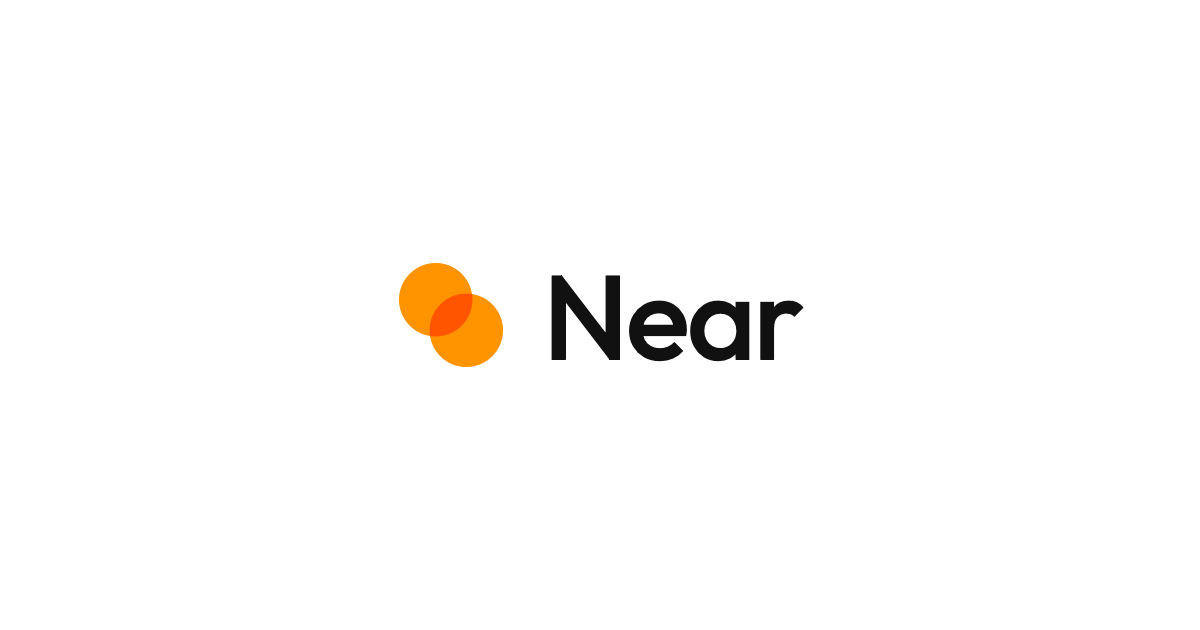
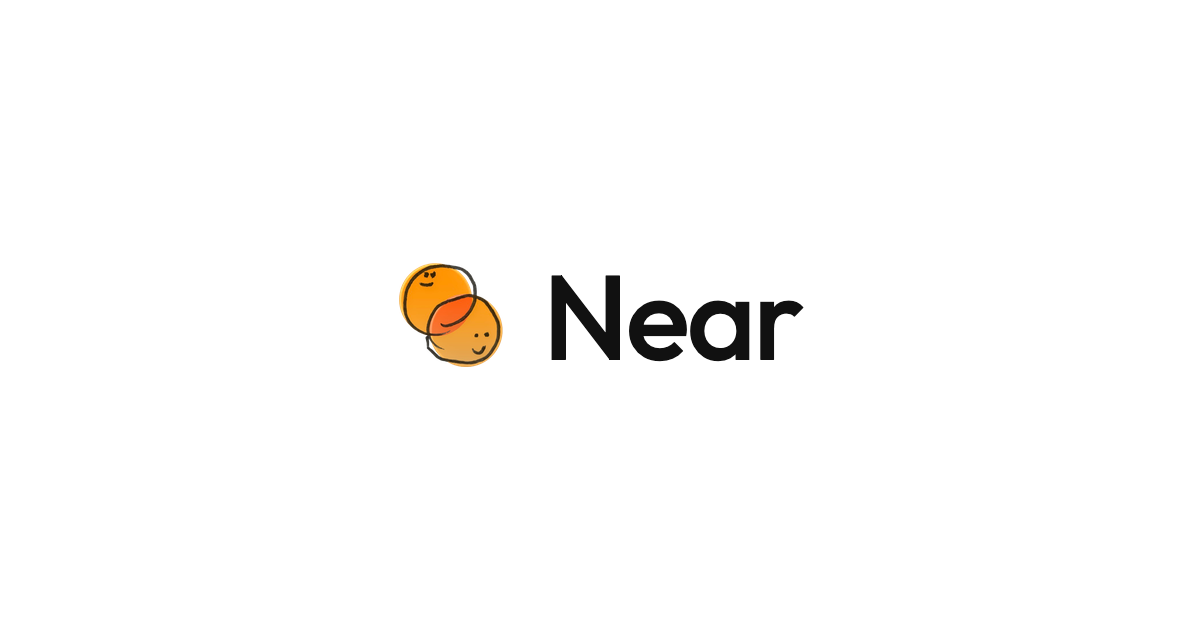
feat(brand): the hand-drawn Near mark everywhere on the site
The wordmark (header, hero, footer), the phone mock's feed bar, the
favicon, the touch icon and the share image use the new drawing, trimmed
to its edges so it fills the same box the two circles did.

Changed region(s): [[0.3083, 0.4222, 0.4317, 0.6032]]

diff --git a/src/styles/global.css b/src/styles/global.css
@@ -11,9 +11,8 @@
   --color-line: #e8e8e6;
   --color-accent: #ff6a2b;
   --color-accent-soft: #fff1ea;
-  /* Logo mark only (matches the app icon): the two circles, and their overlap (= multiply). */
+  /* The logo's orange: every orange fill in the phone mocks. */
   --color-mark: #ff9300;
-  --color-mark-overlap: #ff5500;
 
   /* The only four text sizes on the site (page text; the app mock screens keep their own tiny sizes).
      Fluid from a 390px phone to the 1024px container: display 36→48, title 24→30, body 16→18, small 14. */
@@ -444,7 +443,7 @@ fieldset[aria-invalid="true"] .choice-pill {
   transition-duration: 0s;
 }
 
-/* ---------- Wordmark (logo): two orange circles + Near. Header, hero, footer all use this. ---------- */
+/* ---------- Wordmark (logo): the hand-drawn mark + Near. Header, hero, footer all use this. ---------- */
 .wordmark {
   display: inline-flex;
   align-items: center;
@@ -458,14 +457,8 @@ fieldset[aria-invalid="true"] .choice-pill {
   flex: none;
   width: 0.85em;
   height: 0.85em;
-  overflow: visible;
+  object-fit: contain;
   transition: transform 0.3s var(--ease-spring);
-}
-.wordmark-mark .mark-circle {
-  fill: var(--color-mark);
-}
-.wordmark-mark .mark-overlap {
-  fill: var(--color-mark-overlap);
 }
 .wordmark:hover .wordmark-mark {
   transform: scale(1.15);
